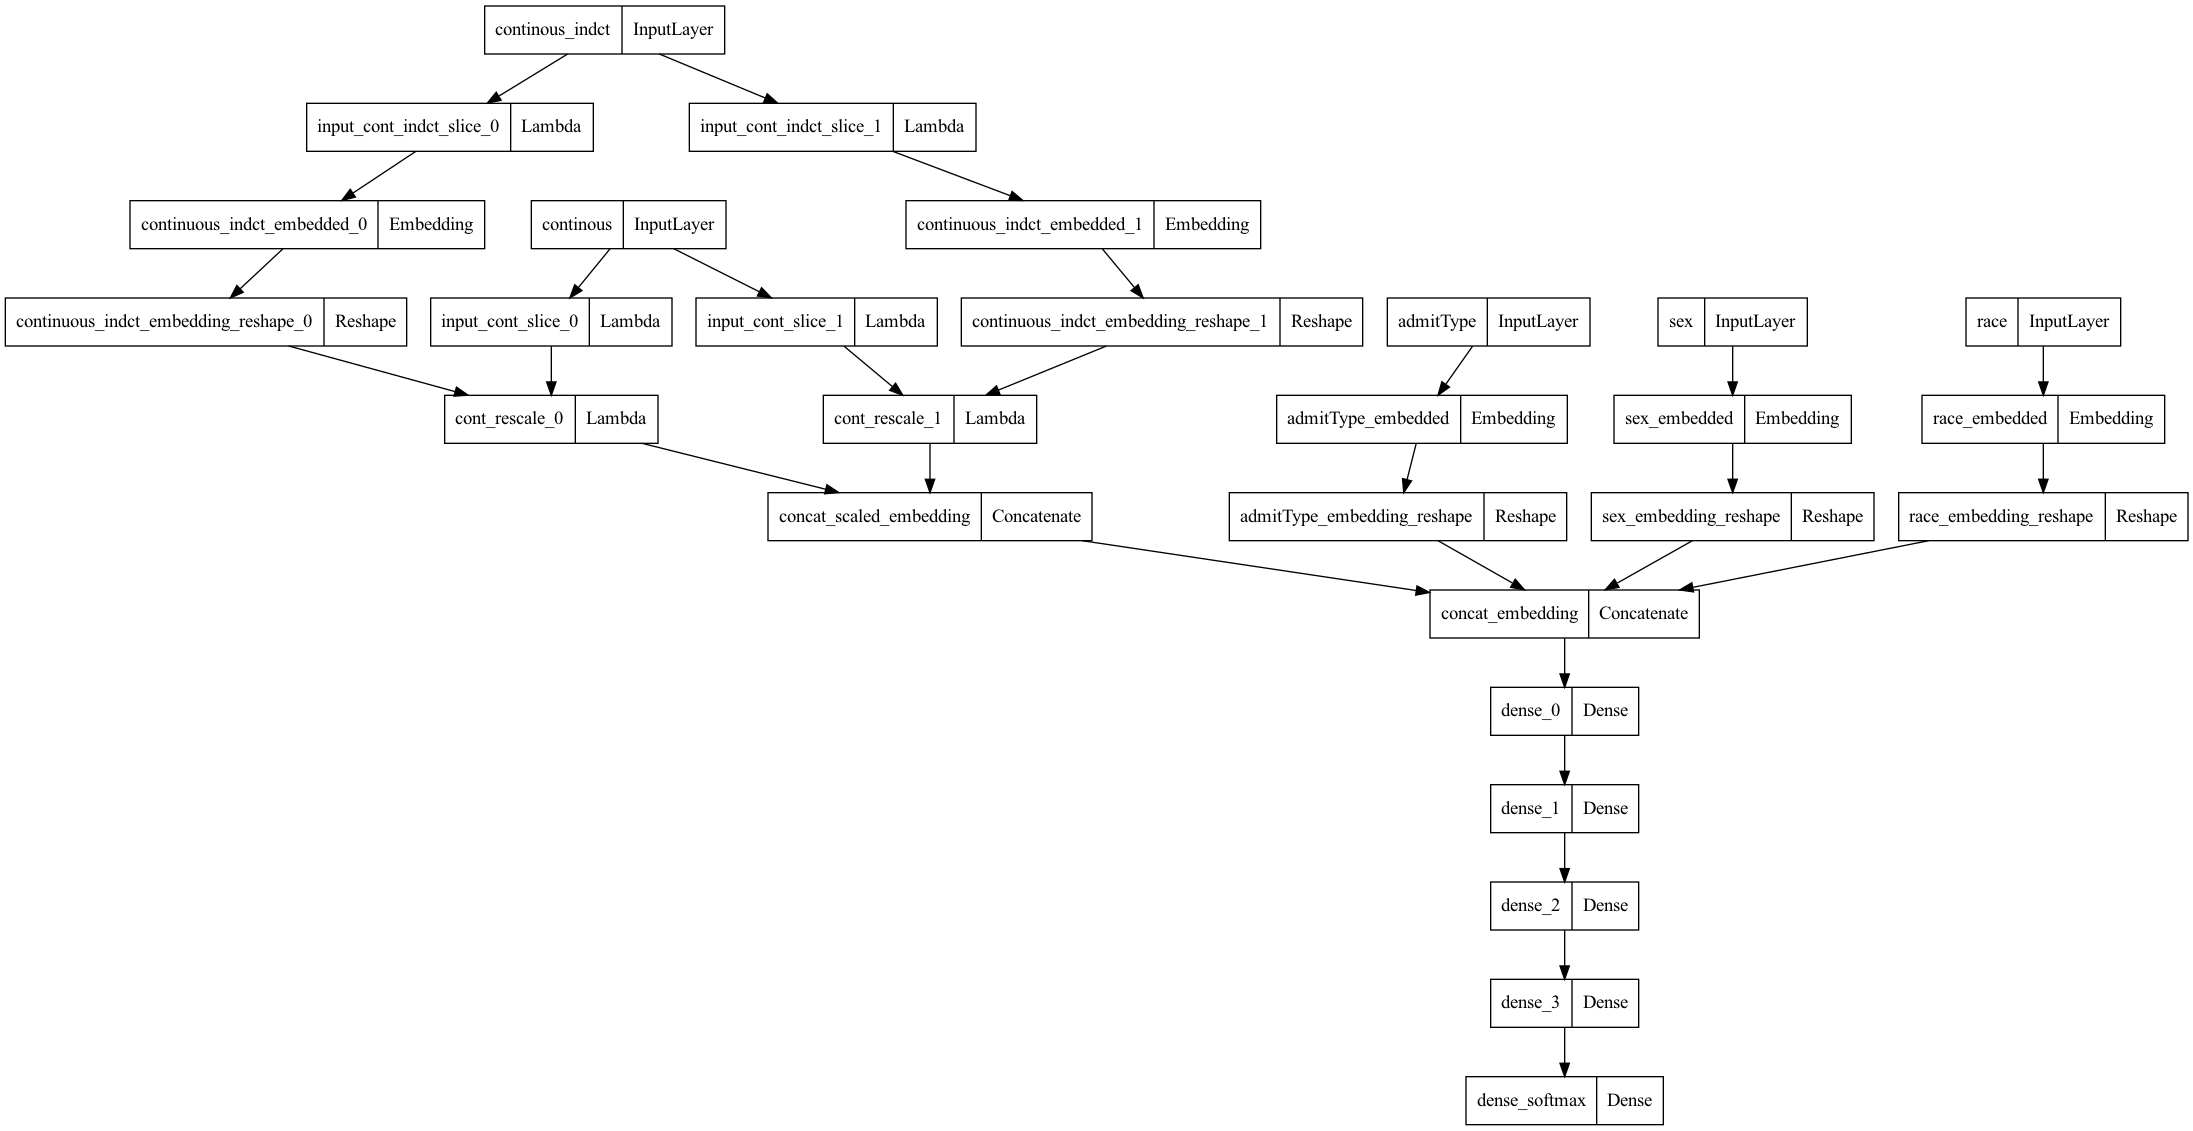
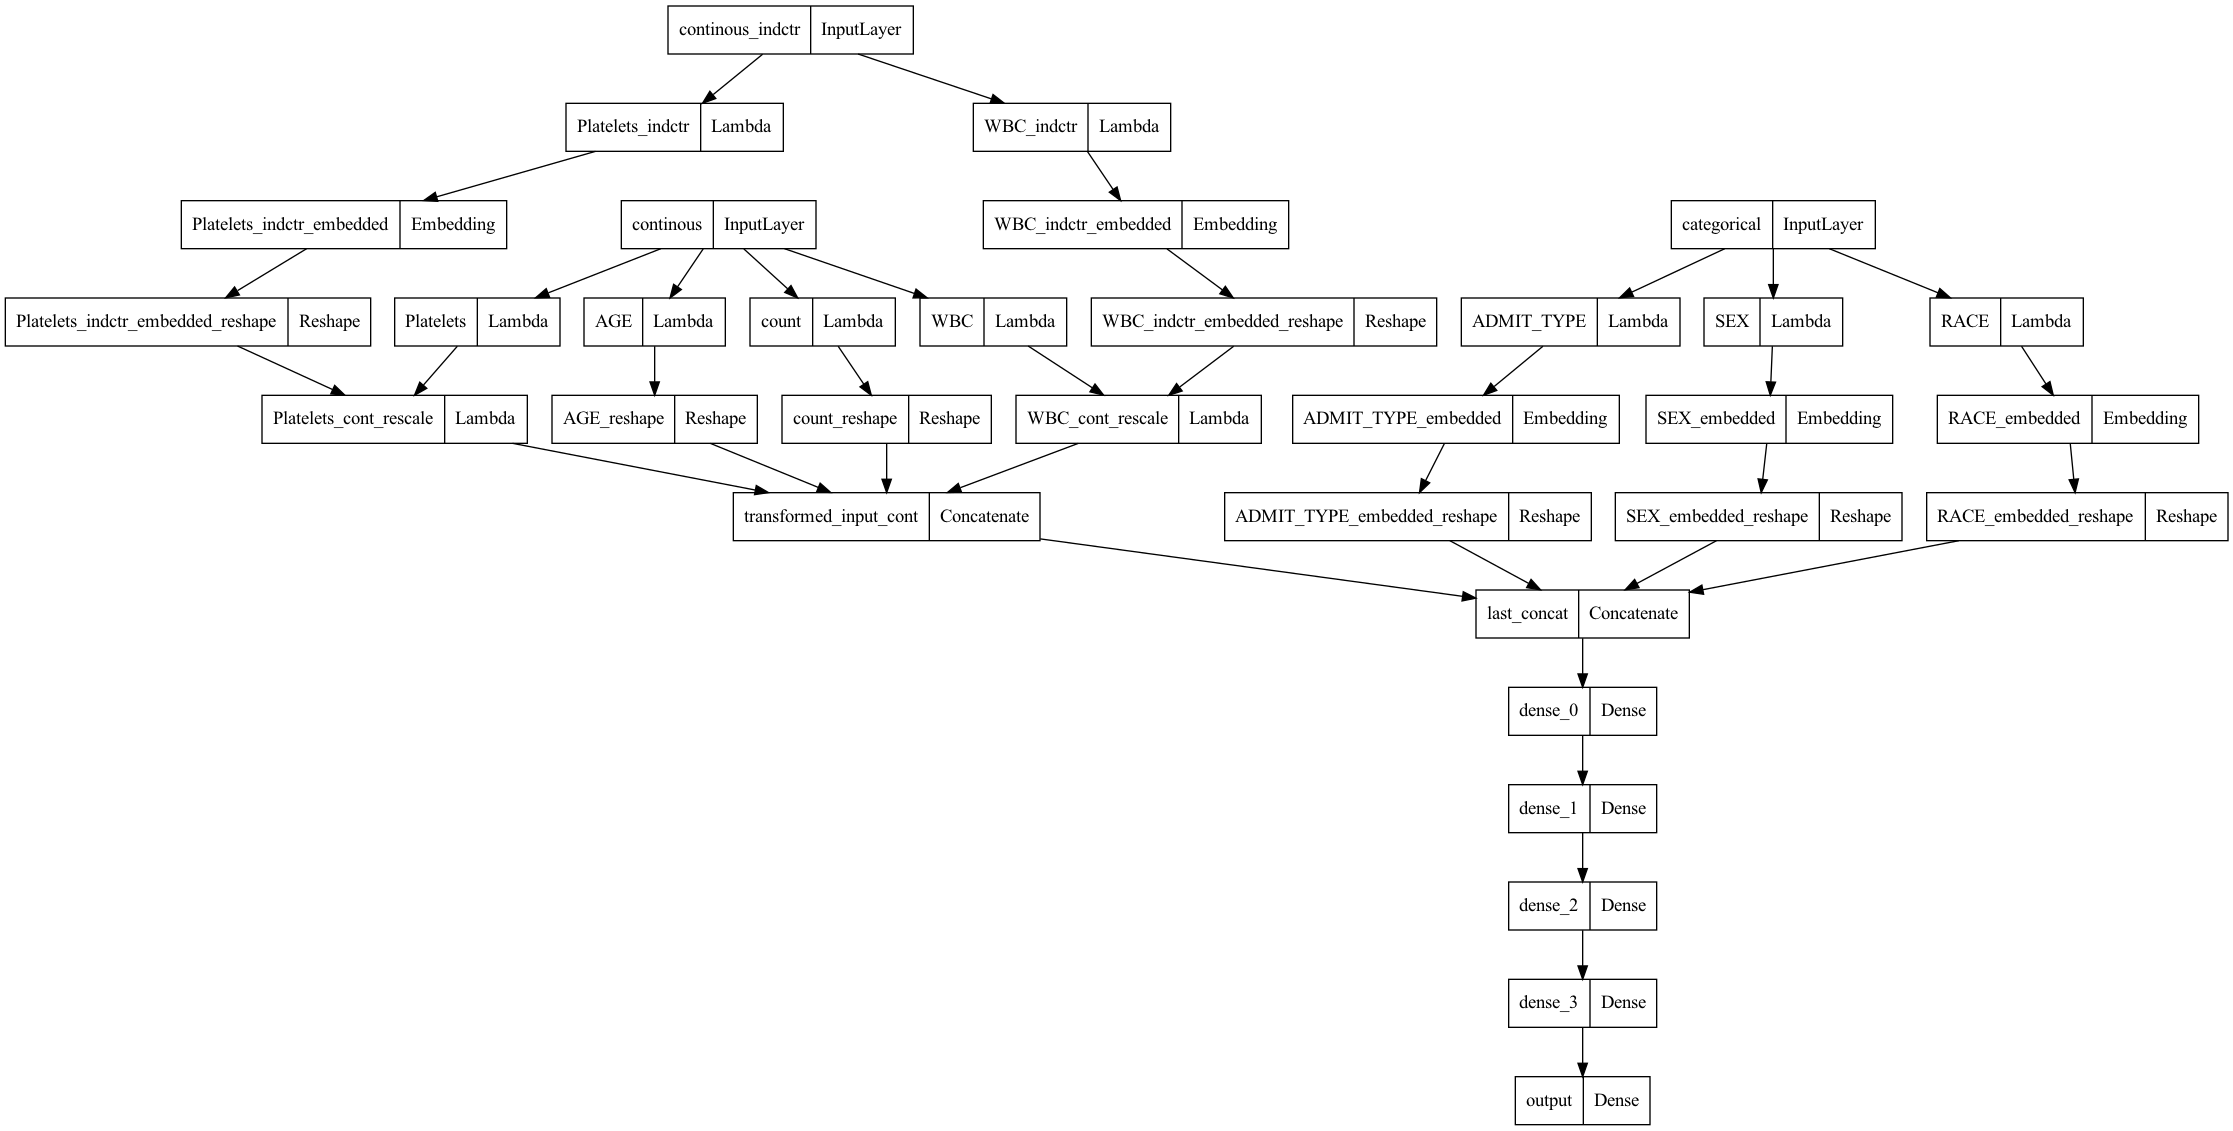
update embedding

diff --git a/embedding.py b/embedding.py
@@ -1,5 +1,6 @@
 """Embedding methods."""
 
+
 from unicodedata import name
 import numpy as np
 import pandas as pd
@@ -15,7 +16,6 @@ from keras.layers import (
     CategoryEncoding,
 )
 from keras.layers.embeddings import Embedding
-from keras.utils.vis_utils import plot_model
 from keras import backend as K
 
 
@@ -31,7 +31,8 @@ class EmbeddingModel:
         self._embed_cat = embed_cat
         self._is_built = False
 
-    def _rescale(x):
+    @staticmethod
+    def rescale(x):
         """Rescale embedding vectors by raw data (used for Lambda layer)."""
         input_value = x[0]
         embedding = x[1]
@@ -76,7 +77,7 @@ class EmbeddingModel:
                     target_shape=(embed_size,),
                     name=var_name + "_indctr_embedded_reshape",
                 )(_cont_indct_embed)
-                _input_cont = Lambda(self._rescale, name=var_name + "_cont_rescale")(
+                _input_cont = Lambda(self.rescale, name=var_name + "_cont_rescale")(
                     [_input_cont, _cont_indct_embed]
                 )
             else:
@@ -103,7 +104,7 @@ class EmbeddingModel:
                 )(_input_cat)
             else:
                 _input_cat = CategoryEncoding(
-                    num_tokens=k, output_mode=var_name + "embedded_reshape"
+                    num_tokens=k, output_mode=var_name + "_one_hot"
                 )(_input_cat)
             sub_layers.append(_input_cat)
         # concat both parts
@@ -120,3 +121,76 @@ class EmbeddingModel:
         if not self._is_built:
             raise ValueError("model not built yet.")
         return self._model
+
+    @staticmethod
+    def static_build(embed_cat) -> Model:
+        """Build a embedding model."""
+        embed_size = 4
+        sub_layers: list[Layer] = []
+        continuous_dim = 4
+        continuous_vars = {"count": False, "AGE": False, "WBC": True, "Platelets": True}
+        categorical_dim = 3
+        categorical_vars = {"ADMIT_TYPE": 4, "SEX": 3, "RACE": 12}
+        # set up input layers
+        ins: list[Input] = []
+        input_cont = Input(shape=(continuous_dim,), name="continous")
+        input_cont_indct = Input(shape=(continuous_dim,), name="continous_indctr")
+        input_cat = Input(shape=(categorical_dim,), name="categorical")
+        for elem in [input_cont, input_cont_indct, input_cat]:
+            ins.append(elem)
+        # contiunous part
+        transformed_input_cont_list: list[Layer] = []
+        for i, (var_name, needs_embed) in enumerate(continuous_vars.items()):
+            _input_cont = Lambda(lambda x: x[:, i], name=var_name)(input_cont)
+            if needs_embed:
+                _input_cont_indct = Lambda(
+                    lambda x: x[:, i], name=var_name + "_indctr"
+                )(input_cont_indct)
+                _cont_indct_embed = Embedding(
+                    2 + 1,
+                    embed_size,
+                    input_length=1,
+                    name=var_name + "_indctr_embedded",
+                )(_input_cont_indct)
+                _cont_indct_embed = Reshape(
+                    target_shape=(embed_size,),
+                    name=var_name + "_indctr_embedded_reshape",
+                )(_cont_indct_embed)
+                _input_cont = Lambda(
+                    EmbeddingModel.rescale, name=var_name + "_cont_rescale"
+                )([_input_cont, _cont_indct_embed])
+            else:
+                _input_cont = Reshape(target_shape=(1,), name=var_name + "_reshape")(
+                    _input_cont
+                )
+            transformed_input_cont_list.append(_input_cont)
+        transformed_input_cont = Concatenate(name="transformed_input_cont")(
+            transformed_input_cont_list
+        )
+        sub_layers.append(transformed_input_cont)
+        # categorical part
+        for j, (var_name, k) in enumerate(categorical_vars.items()):
+            _input_cat = Lambda(lambda l: l[:, j], name=var_name)(input_cat)
+            if embed_cat:
+                _input_cat = Embedding(
+                    input_dim=k + 1,
+                    output_dim=embed_size,
+                    input_length=1,
+                    name=var_name + "_embedded",
+                )(_input_cat)
+                _input_cat = Reshape(
+                    target_shape=(embed_size,), name=var_name + "_embedded_reshape"
+                )(_input_cat)
+            else:
+                _input_cat = CategoryEncoding(
+                    num_tokens=k,
+                    output_mode="one_hot",
+                    name=var_name + "embedded_reshape",
+                )(_input_cat)
+            sub_layers.append(_input_cat)
+        # concat both parts
+        x = Concatenate(name="last_concat")(sub_layers)
+        for i in range(4):
+            x = Dense(200, activation="relu", name="dense_" + str(i))(x)
+        out = Dense(1, activation="sigmoid", name="output")(x)
+        return Model(inputs=ins, outputs=out)

diff --git a/slice.py b/slice.py
@@ -1,0 +1,12 @@
+"""Slice layer."""
+
+import numpy as np
+import tensorflow as tf
+from tensorflow import keras
+from keras.models import Sequential
+from keras.layers import Dense, Concatenate, Input, Flatten, Lambda
+
+layer = Lambda(lambda l: l[:, 0], name="slice")
+arr = np.array([[1, 1, 0], [2, 1, 8], [1, 1, 1], [1, 3, 9]])
+
+print(layer(arr))
